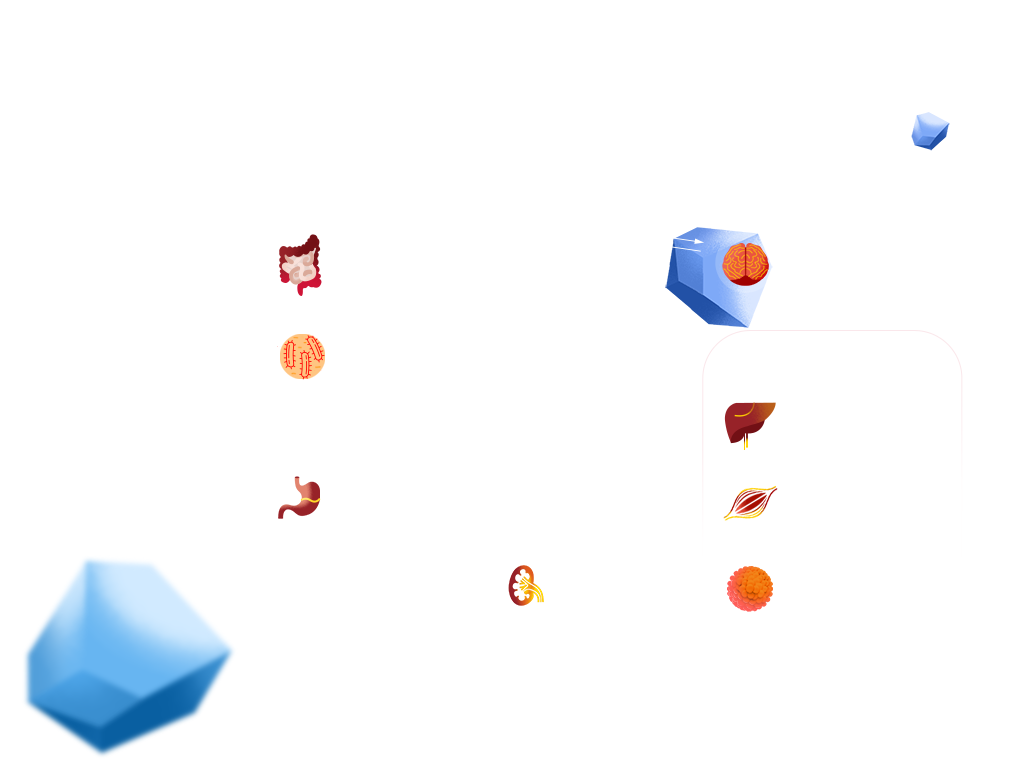
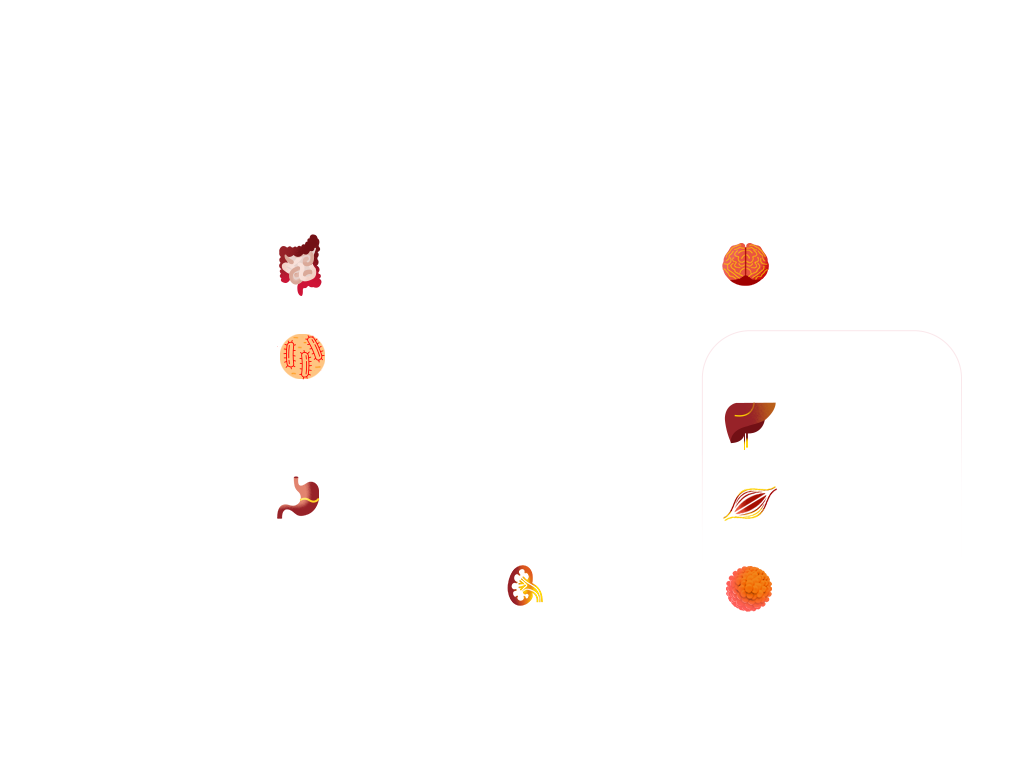
add crystals for 3_3

diff --git a/src/App.css b/src/App.css
@@ -41,27 +41,142 @@
 }
 
 .background-3-1 {
-  display: inline-block;
-  height: 100vh;
-  width: 100vw;
-  left: -200vw;
-  background-image: url('/img/scheme3_1.png');
+    overflow: hidden;
+    /*position: relative;*/
+    white-space: nowrap;
+    display: inline-block;
+    height: 100vh;
+    width: 100vw;
+    left: -200vw;
+    background-image: url('/img/scheme3_1.png');
 }
 
 .background-3-2 {
-  display: inline-block;
-  height: 100vh;
-  width: 100vw;
-  left: -100vw;
-  background-image: url('/img/scheme3_2.png');
+    overflow: hidden;
+    /*position: relative;*/
+    white-space: nowrap;
+    display: inline-block;
+    height: 100vh;
+    width: 100vw;
+    left: -100vw;
+    background-image: url('/img/scheme3_2.png');
 }
 
 .background-3-3 {
-  display: inline-block;
-  height: 100vh;
-  width: 100vw;
-  left: 0;
-  background-image: url('/img/scheme3_3.png');
+    overflow: hidden;
+    /*position: relative;*/
+    white-space: nowrap;
+    display: inline-block;
+    height: 100vh;
+    width: 100vw;
+    left: 0;
+    background-image: url('/img/scheme3_3.png');
+}
+
+.ice-3-1 {
+     display: inline-block;
+     height: 100vh;
+     width: 100vw;
+     left: 0;
+     background-image: url('/img/ice3_1.png');
+ }
+
+.ice-3-2 {
+    display: inline-block;
+    position: relative;
+    overflow: hidden;
+    white-space: nowrap;
+    height: 100vh;
+    width: 100vw;
+    left: 0;
+    background-image: url('/img/ice3_2.png');
+}
+
+.ice-3-3 {
+    display: inline-block;
+    height: 100vh;
+    width: 100vw;
+    left: 0;
+    background-image: url('/img/ice3_3.png');
+}
+
+.ice-3-2-bottom {
+    display: inline-block;
+    position: absolute;
+    white-space: nowrap;
+    overflow: hidden;
+    height: 414px;
+    width: 408px;
+    top: 65vh;
+    left: 72vw;
+    background-image: url('/img/ice_bottom_3_2.png');
+}
+
+.ice-3-3-bottom {
+    height: 496px;
+    width: 489px;
+    display: block;
+    position: relative;
+    white-space: nowrap;
+    overflow: hidden;
+    transform: rotate(-23deg);
+    top: -10vh;
+    left: -10vw;
+    filter: blur(3px);
+}
+
+.ice-3-3-bottom::after {
+    content: '';
+    position: absolute;
+    width: 100%;
+    height: 100%;
+    opacity: 1;
+    background: url('/img/ice_max.png') no-repeat;
+    z-index: -1;
+}
+
+.ice-3-3-right {
+    height: 372px;
+    width: 367px;
+    display: block;
+    position: relative;
+    white-space: nowrap;
+    overflow: hidden;
+    transform: rotate(65deg);
+    top: -10vh;
+    right: -70vw;
+}
+
+.ice-3-3-right::after {
+    content: '';
+    position: absolute;
+    width: 100%;
+    height: 100%;
+    opacity: 0.5;
+    background: url('/img/ice_med.png') no-repeat;
+    z-index: -1;
+}
+
+.ice-3-3-top {
+    height: 141px;
+    width: 139px;
+    display: block;
+    position: relative;
+    white-space: nowrap;
+    overflow: hidden;
+    transform: rotate(-30deg);
+    top: 10vh;
+    left: -6vw;
+}
+
+.ice-3-3-top::after {
+    content: '';
+    position: absolute;
+    width: 100%;
+    height: 100%;
+    opacity: 0.3;
+    background: url('/img/ice_top_3_3.png') no-repeat;
+    z-index: -1;
 }
 
 /*toggler*/

diff --git a/src/App.js b/src/App.js
@@ -95,9 +95,19 @@ class App extends Component {
                         <div className="background-2"/>
 
                         <div id="box3">
-                            <div className="background-3-1"/>
-                            <div className="background-3-2"/>
-                            <div className="background-3-3"/>
+                            <div className="background-3-1">
+                                <div className="ice-3-1" />
+                            </div>
+                            <div className="background-3-2">
+                                <div className="ice-3-2" />
+                                {/*<div className="ice-3-2-bottom" />*/}
+                            </div>
+                            <div className="background-3-3">
+                                {/*<div className="ice-3-3" />*/}
+                                <div className="ice-3-3-top" />
+                                <div className="ice-3-3-right" />
+                                <div className="ice-3-3-bottom" />
+                            </div>
 
                         </div>
                         <Toggler />
